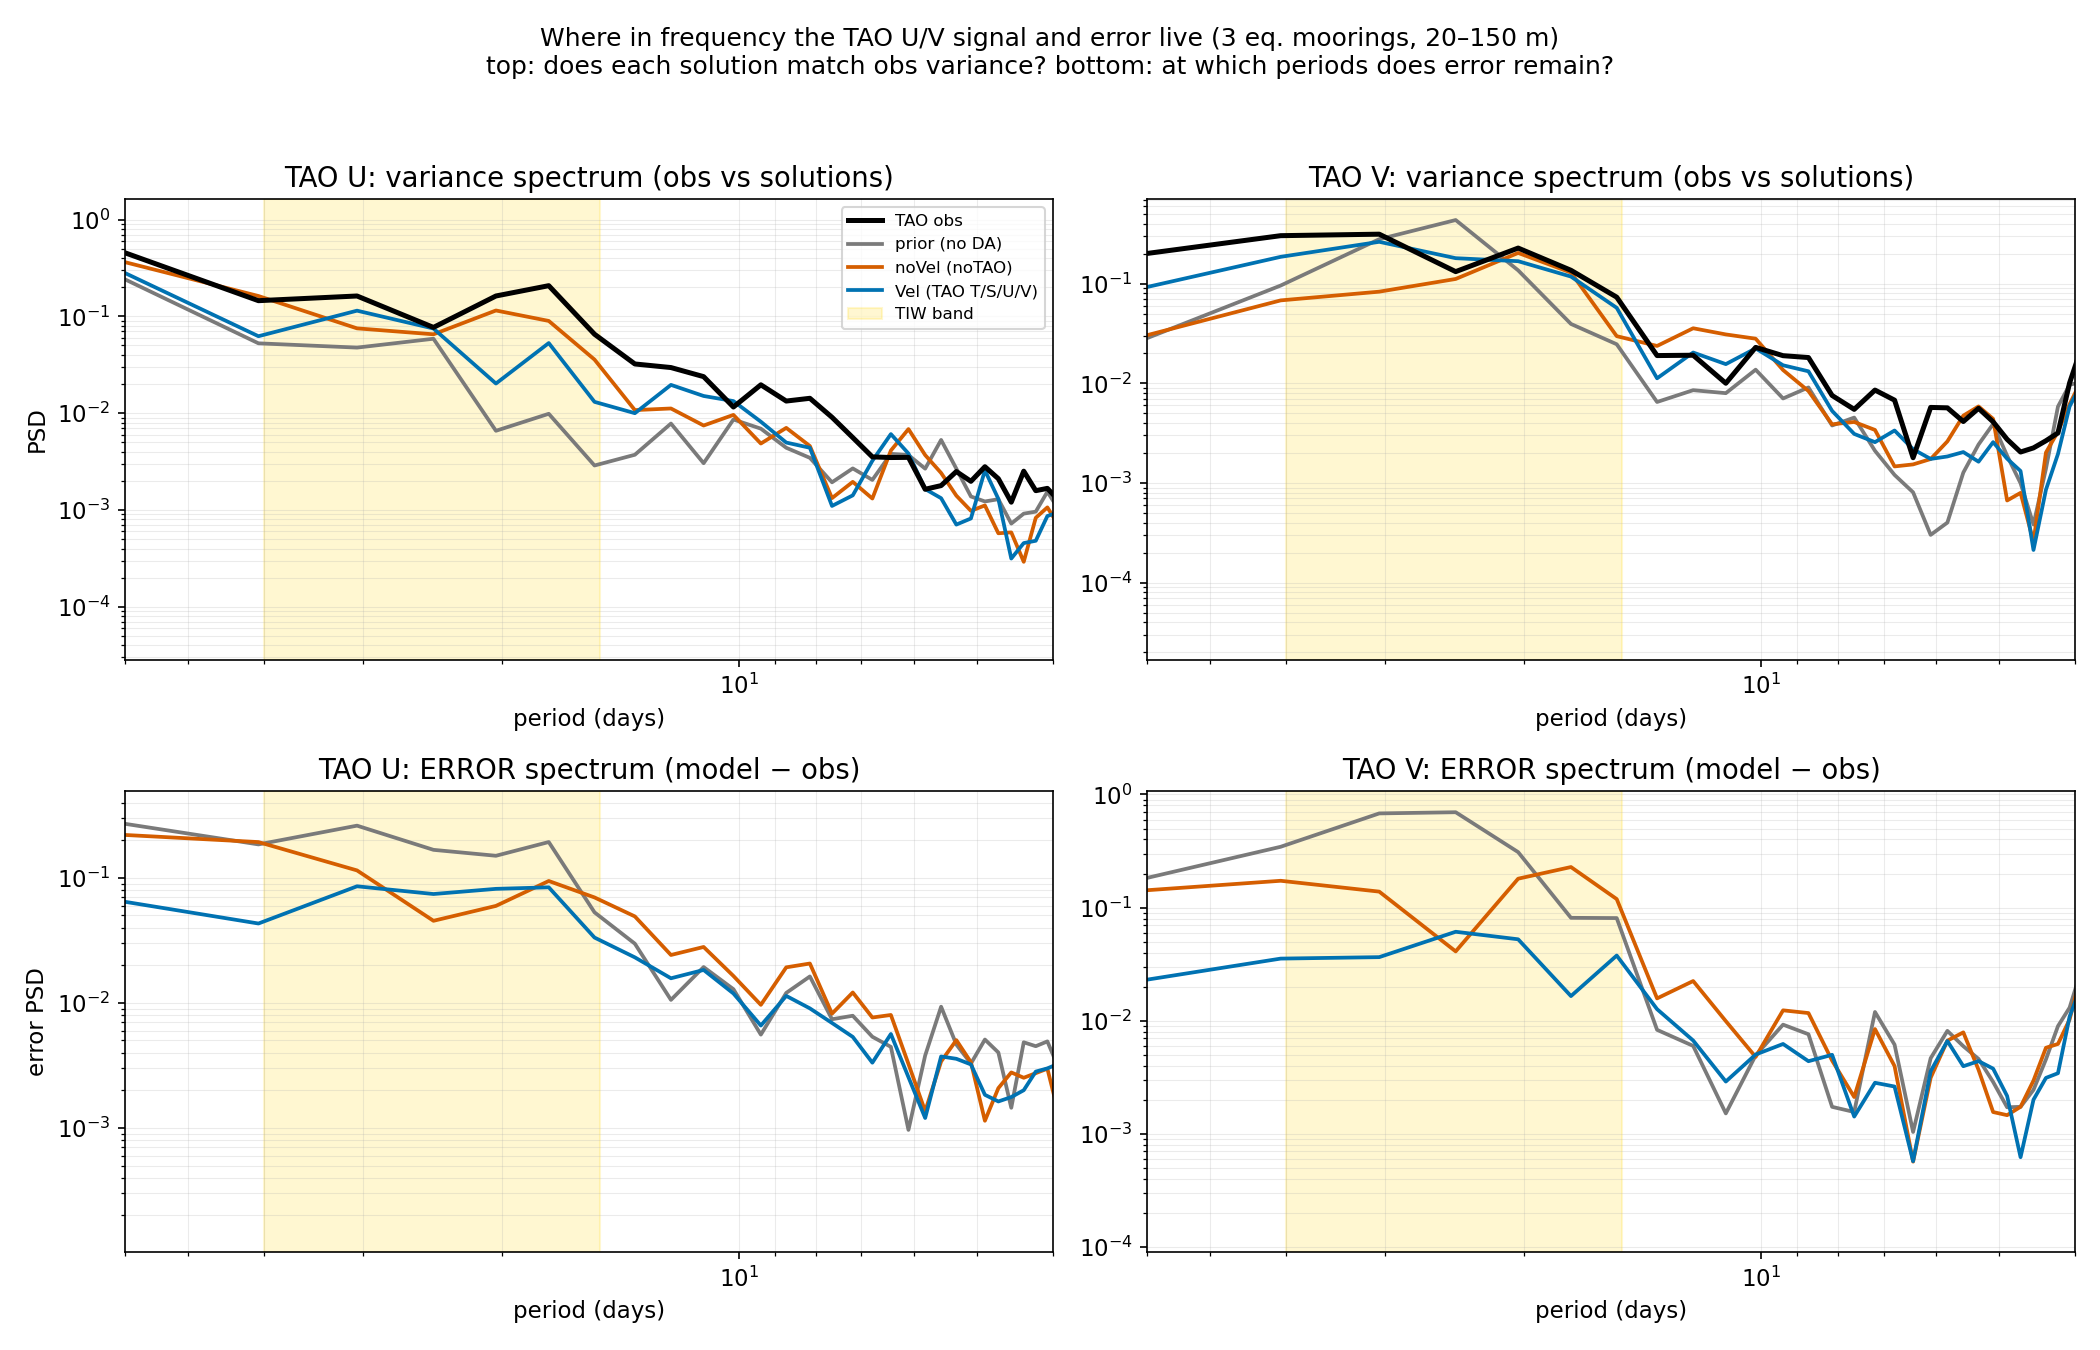
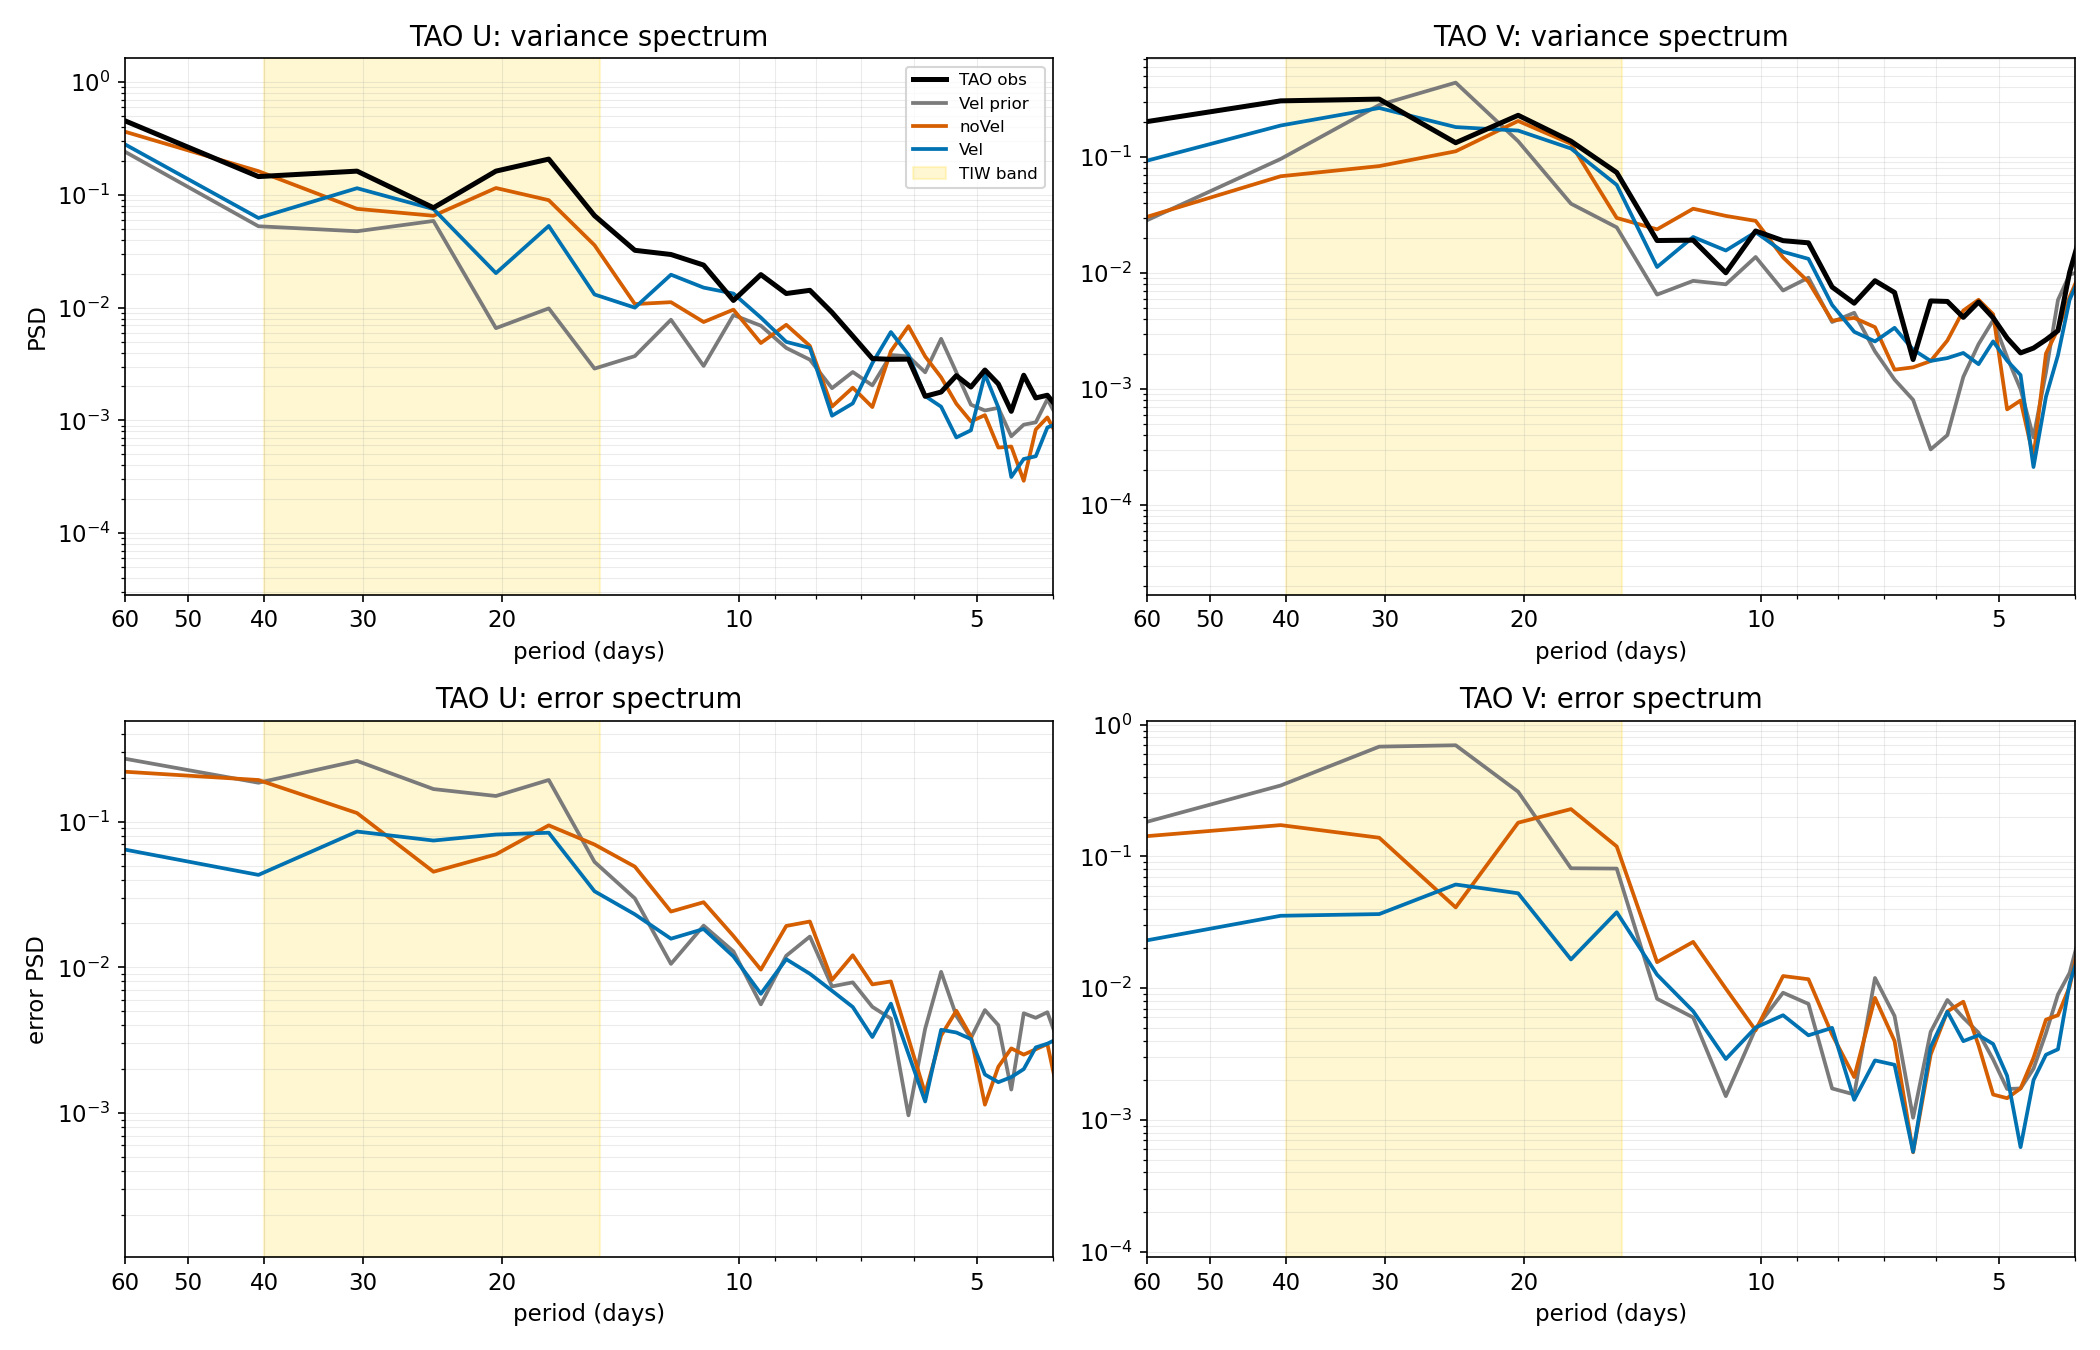
updating legends to be more consistent

diff --git a/make_figures.py b/make_figures.py
@@ -27,7 +27,7 @@ ANCHOR = {'vel': 'Vel', 'novel': 'noVel'}[FAMILY]   # family's full-solution run
 FIGS = f'{HERE}/figs/{FAMILY}'   # figures stay in the repo (deliverables)
 
 # fixed context runs (same in every experiment)
-FIX_LABEL = {'prior': 'prior (no DA)', 'noVel': 'TPOSE6-noVel', 'Vel': 'TPOSE6-Vel (full)'}
+FIX_LABEL = {'prior': 'Vel prior', 'noVel': 'noVel', 'Vel': 'Vel'}
 FIX_COLOR = {'prior': '0.5', 'noVel': 'tab:orange', 'Vel': 'tab:blue'}
 # highlight for the single-control run in fig1(b)/fig2: distinct from the
 # prior gray and noVel/Vel blues (CTRL_COLOR slategray/darkgray/tab:blue collide).
@@ -138,7 +138,7 @@ def fig_headline(control, outdir):
     # (a) % RMSE improvement of this control vs prior (iter0) and noVel
     x = np.arange(len(prods)); w = 0.38
     for j, (base, hatch, lbl) in enumerate([('prior', None, 'vs prior (iter0)'),
-                                            ('noVel', '//', 'vs TPOSE6-noVel')]):
+                                            ('noVel', '//', 'vs noVel')]):
         vals = [100 * (r.loc[k, base] - r.loc[k, control]) / r.loc[k, base]
                 if base in r.columns else np.nan for k, _, _ in prods]
         bars = ax[0].bar(x + (j - 0.5) * w, [v if np.isfinite(v) else 0 for v in vals],
@@ -409,7 +409,7 @@ def fig_intercomp_bars(controls, outdir):
     x = np.arange(len(prods)); w = 0.8 / len(controls)
     fig, axs = plt.subplots(2, 1, figsize=(13, 9))
     for ax, base, ttl in [(axs[0], 'prior', '(a) vs prior (iter0)'),
-                          (axs[1], 'noVel', '(b) vs TPOSE6-noVel')]:
+                          (axs[1], 'noVel', '(b) vs noVel')]:
         for ci, c in enumerate(controls):
             vals = [100 * (r.loc[k, base] - r.loc[k, c]) / r.loc[k, base]
                     if base in r.columns else np.nan for k, _, _ in prods]
@@ -430,8 +430,8 @@ def fig_intercomp_depth(controls, outdir):
     for ax, (prod, var) in zip(axs, [('argo', 'T'), ('argo', 'S'), ('tao', 'U'), ('tao', 'V')]):
         obs = _obs(prod); lok = obs['latok']
         depth = obs['depth']; o = obs[f'obs_{var}']; w = obs[f'w_{var}']
-        series = [('prior', '0.5', 'prior (no DA)', 2, '--'),
-                  ('Vel', 'tab:blue', 'TPOSE6-Vel (full)', 2, '-')]
+        series = [('prior', '0.5', 'Vel prior', 2, '--'),
+                  ('Vel', 'tab:blue', 'Vel', 2, '-')]
         series += [(c, CTRL_COLOR[c], tiw.CONTROL_XX[c], 1.3, '-') for c in controls]
         for run, col, lab, lw, ls in series:
             fp = f'{CACHE}/model_{run}_{prod}_{var}.npy'
@@ -524,14 +524,14 @@ def fig_decomp_depth(controls, outdir):
 # with prior and full (Vel) as references: which combination's profile is closest to full.
 # (run, color, explicit-label-or-None, extra plot kwargs)
 DECOMP_PROFILE_RUNS = [
-    ('prior',            '0.5',        'prior (no DA)', dict(marker='o', markersize=3, markevery=6)),
+    ('prior',            '0.5',        'Vel prior', dict(marker='o', markersize=3, markevery=6)),
     ('initialT',         'tab:green',  None,            {}),
     ('initialS',         'tab:red',    None,            {}),
     ('zonalWind',        'tab:purple', None,            {}),
     ('theta_salt',       'tab:orange', None,            {}),
     ('initialT_uwind',   'tab:brown',  None,            {}),
     ('theta_salt_uwind', 'tab:cyan',   None,            {}),
-    ('Vel',              'k',          'Full (TPOSE6-Vel)', dict(lw=1.5)),
+    ('Vel',              'k',          'Full (TPOSE-Vel)', dict(lw=1.5)),
 ]
 
 
@@ -557,7 +557,7 @@ def fig_decomp_rmse_profiles(outdir):
 
 # fig3-style misfit-evolution overlay: profile runs plus xx_swdown and the 4-way top4.
 DECOMP_TIME_RUNS = [
-    ('prior',            '0.5',        'prior (no DA)', dict(marker='o', markersize=3, markevery=8)),
+    ('prior',            '0.5',        'Vel prior', dict(marker='o', markersize=3, markevery=8)),
     ('initialT',         'tab:green',  None,            {}),
     ('initialS',         'tab:red',    None,            {}),
     ('zonalWind',        'tab:purple', None,            {}),
@@ -566,7 +566,7 @@ DECOMP_TIME_RUNS = [
     ('initialT_uwind',   'tab:brown',  None,            {}),
     ('theta_salt_uwind', 'tab:cyan',   None,            {}),
     ('top4',             'magenta',    None,            {}),
-    ('Vel',              'k',          'Full (TPOSE6-Vel)', dict(lw=1.5)),
+    ('Vel',              'k',          'Full (TPOSE-Vel)', dict(lw=1.5)),
 ]
 
 

diff --git a/summary_figs.py b/summary_figs.py
@@ -15,6 +15,7 @@ import matplotlib.dates as mdates
 import matplotlib.patheffects as pe
 from matplotlib.collections import LineCollection
 from matplotlib.lines import Line2D
+from matplotlib.ticker import ScalarFormatter, NullFormatter
 from scipy.signal import hilbert, find_peaks
 import tiw
 import anova
@@ -26,9 +27,9 @@ CACHE = tiw.CACHE
 
 # distinct, colorblind-friendly palette (Okabe-Ito) — used across the summary figs
 PRIOR, NOVEL, VEL = '#7a7a7a', '#D55E00', '#0072B2'
-SOLUTIONS = [('prior', PRIOR, 'prior (no DA)'),
-             ('noVel', NOVEL, 'noVel (noTAO)'),
-             ('Vel', VEL, 'Vel (TAO T/S/U/V)')]
+SOLUTIONS = [('prior', PRIOR, 'Vel prior'),
+             ('noVel', NOVEL, 'noVel'),
+             ('Vel', VEL, 'Vel')]
 PROF = [('argo', 'T', 'Argo θ', '°C', -500),
         ('argo', 'S', 'Argo S', 'psu', -500),
         ('tao', 'U', 'TAO U', 'm/s', -315),
@@ -88,12 +89,12 @@ def fig_error_and_decomp_profiles():
                     ls='--' if dashed else '-', label=rlabel,
                     marker='o' if dashed else None, ms=3, markevery=4, zorder=3)
         ax.set_title(label, fontsize=13)
-        ax.set_xlabel(f'RMSE ({unit})'); ax.set_ylim(zlim, 0); ax.set_xlim(left=0)
+        ax.set_xlabel(f'RMSE ({unit})'); ax.set_ylim(-315, 0); ax.set_xlim(left=0)
         ax.grid(alpha=0.25, lw=0.6); ax.spines[['top', 'right']].set_visible(False)
         ax.tick_params(labelsize=10)
     top[0].set_ylabel('depth (m)', fontsize=12)
     top[1].legend(fontsize=12, loc='lower right', frameon=True, framealpha=0.9)
-    sfigs[0].suptitle('Full Solutions', fontsize=16, fontweight='bold')
+    sfigs[0].suptitle('TPOSE-Vel vs. TPOSE-noVel', fontsize=16, fontweight='bold')
     # bottom row: single-control & combo decomposition vs full solution
     for ax, (prod, var, label, unit, _) in zip(bot, PROF):
         obs = np.load(f'{CACHE}/obs_{prod}.npz')
@@ -112,12 +113,12 @@ def fig_error_and_decomp_profiles():
             ax.plot(tiw.rmse_profile(o, np.load(fp)[latok], w), depth,
                     color=color, label=lbl or mf._dlabel(run), **style)
         ax.set_title(label, fontsize=13)
-        ax.set_xlabel(f'RMSE ({unit})'); ax.set_ylim(-500 if prod == 'argo' else -315, 0)
+        ax.set_xlabel(f'RMSE ({unit})'); ax.set_ylim(-315, 0)
         ax.set_xlim(left=0); ax.grid(alpha=0.25, lw=0.6)
         ax.spines[['top', 'right']].set_visible(False); ax.tick_params(labelsize=10)
     bot[0].set_ylabel('depth (m)', fontsize=12)
     bot[1].legend(fontsize=10, loc='lower right')
-    sfigs[1].suptitle('TPOSE-Vel Withheld Controls Experiments', fontsize=16, fontweight='bold')
+    sfigs[1].suptitle('TPOSE-Vel Isolated Controls Experiments', fontsize=16, fontweight='bold')
     os.makedirs(OUT, exist_ok=True)
     fig.savefig(f'{OUT}/error_and_decomp_profiles.png', dpi=150); plt.close(fig)
     print('wrote error_and_decomp_profiles.png')
@@ -290,16 +291,16 @@ def fig_error_spectrum():
             ax = axs[row, j]
             ax.axvspan(*TIW_PER, color='gold', alpha=0.18, label='TIW band' if row == 0 else None)
             ax.set_xscale('log'); ax.set_yscale('log'); ax.set_xlim(60, 4)
+            ax.set_xticks([5, 10, 20, 30, 40, 50, 60])   # log scale, labeled in days
+            ax.xaxis.set_major_formatter(ScalarFormatter())
+            ax.xaxis.set_minor_formatter(NullFormatter())
             ax.grid(alpha=0.25, which='both', lw=0.5)
             ax.set_xlabel('period (days)')
-        axs[0, j].set_title(f'TAO {var}: variance spectrum (obs vs solutions)')
-        axs[1, j].set_title(f'TAO {var}: ERROR spectrum (model − obs)')
+        axs[0, j].set_title(f'TAO {var}: variance spectrum')
+        axs[1, j].set_title(f'TAO {var}: error spectrum')
     axs[0, 0].set_ylabel('PSD'); axs[1, 0].set_ylabel('error PSD')
     axs[0, 0].legend(fontsize=8)
-    fig.suptitle('Where in frequency the TAO U/V signal and error live (3 eq. moorings, 20–150 m)\n'
-                 'top: does each solution match obs variance? bottom: at which periods does error remain?',
-                 fontsize=12)
-    fig.tight_layout(rect=[0, 0, 1, 0.95])
+    fig.tight_layout()
     fig.savefig(f'{OUT}/velocity_error_spectrum.png', dpi=150); plt.close(fig)
     print('wrote velocity_error_spectrum.png')
 

diff --git a/profile_windows.py b/profile_windows.py
@@ -15,9 +15,9 @@ import tiw
 import misfit_cost as mc
 
 LAT = mc.LAT_LIMIT
-SOLS = [('prior', '#7a7a7a', 'prior (no DA)'),
-        ('noVel', '#D55E00', 'noVel (noTAO)'),
-        ('Vel',   '#0072B2', 'Vel (TAO T/S/U/V)')]
+SOLS = [('prior', '#7a7a7a', 'Vel prior'),
+        ('noVel', '#D55E00', 'noVel'),
+        ('Vel',   '#0072B2', 'Vel')]
 # product -> obs file per year + variables + axis label/limits
 PROD = [
     ('argo', 'T', 'Argo θ', '°C', -500, lambda y: f'{mc._C}/USGO_TP_{y}_PFL_D_w.nc'),
